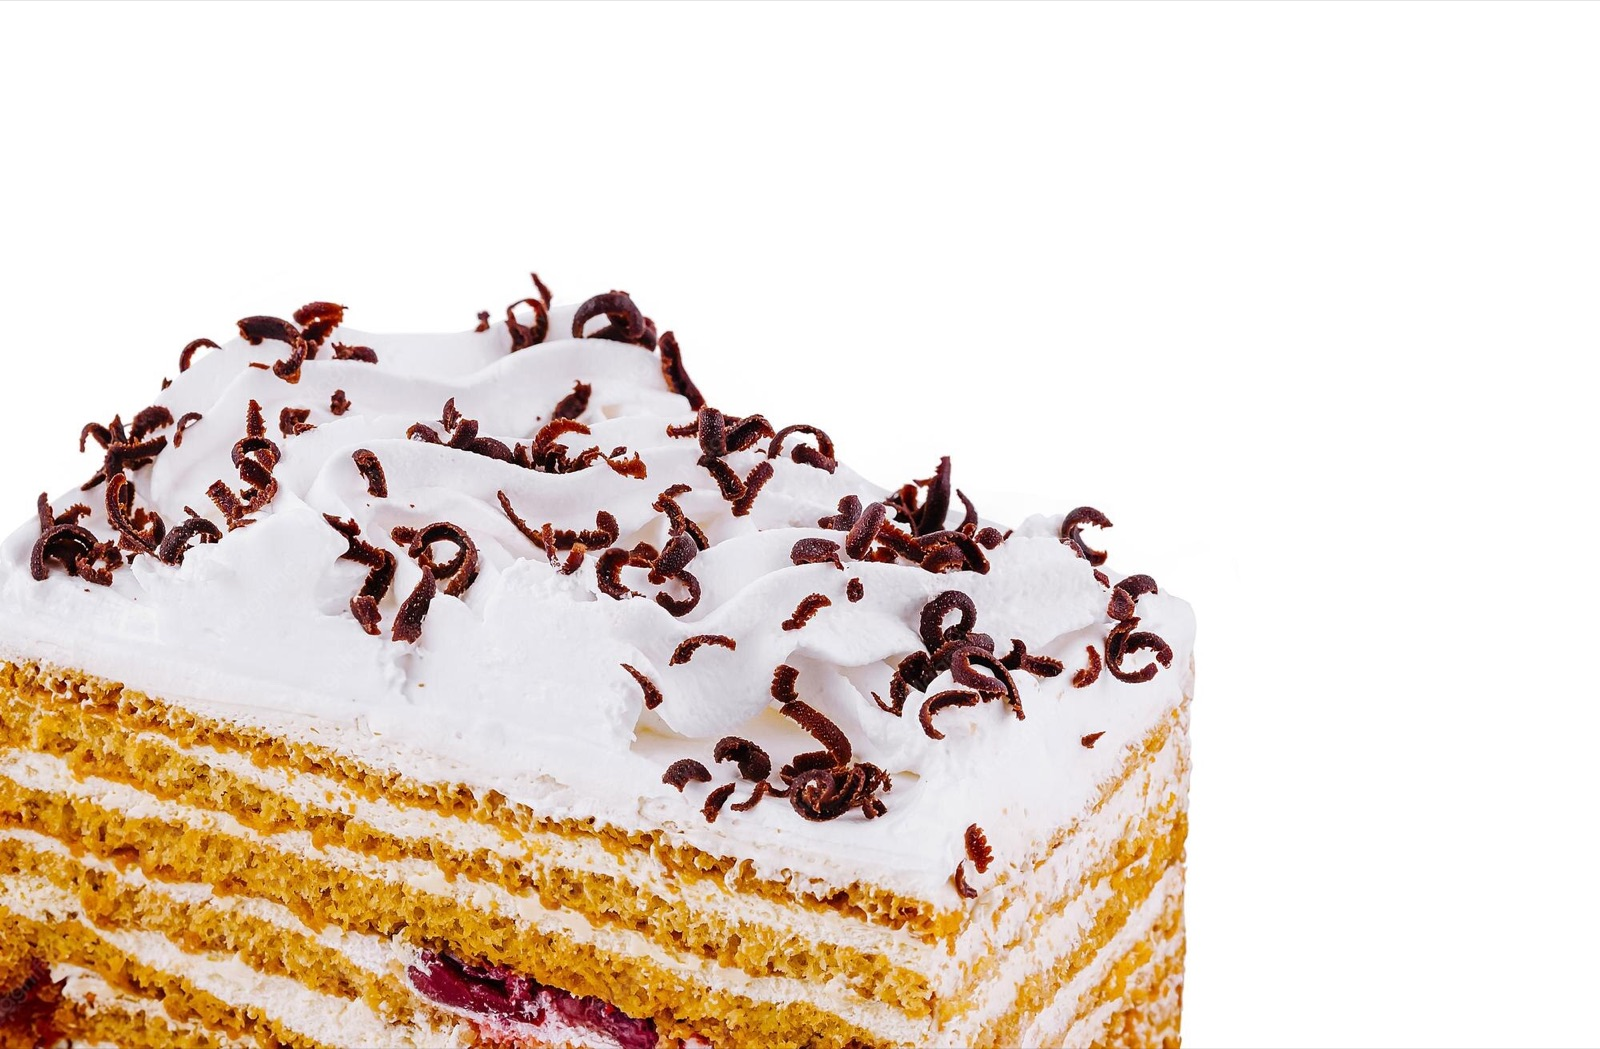
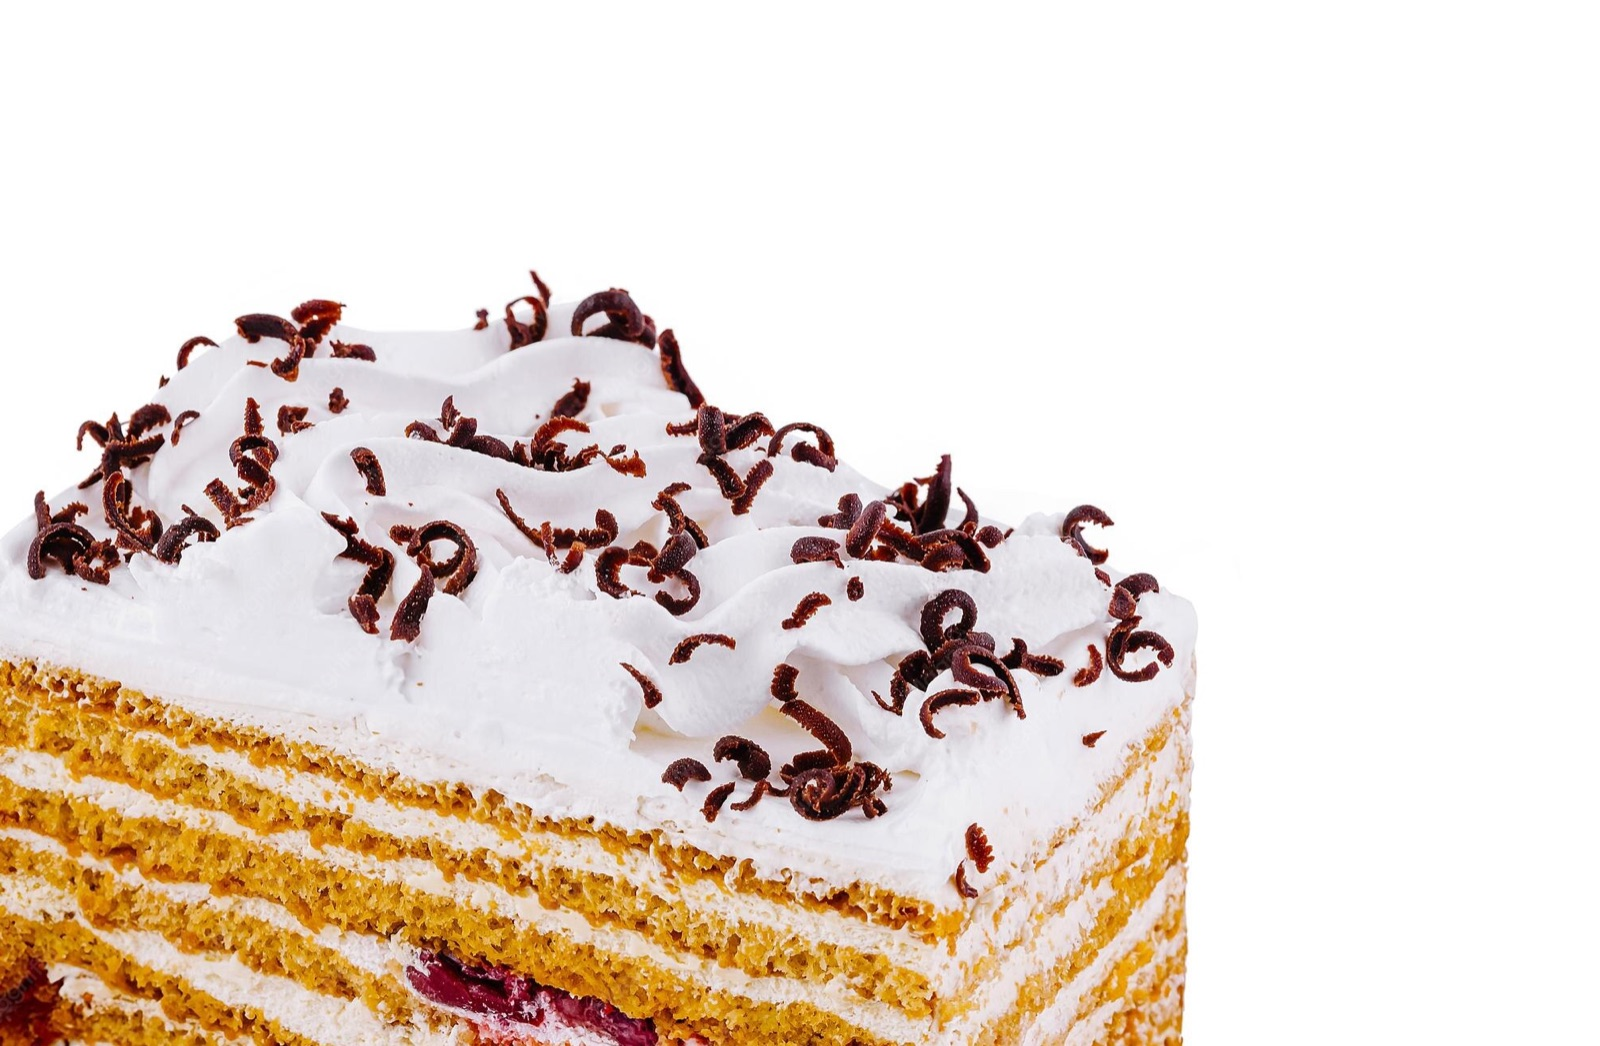
Match Figma layout: flipped hero cake, horizontal spoon, full footer cake
Hero cake is rotated 180° as in the design, berries shown as a full
bowl instead of a circle crop, a single spoon laid horizontally under
the contact text, marquee no longer hidden behind the title plate, and
the footer cake is shown uncropped at full width.

diff --git a/index.html b/index.html
@@ -7,7 +7,7 @@
 <meta name="description" content="Домашняя кондитерская @vvladsaa: торты, чизкейки, десерты ручной работы на заказ.">
 <link rel="preconnect" href="https://fonts.googleapis.com">
 <link rel="preconnect" href="https://fonts.gstatic.com" crossorigin>
-<link href="https://fonts.googleapis.com/css2?family=Playfair+Display:ital,wght@0,400;0,600;1,400;1,500&display=swap" rel="stylesheet">
+<link href="https://fonts.googleapis.com/css2?family=Playfair+Display:ital,wght@0,400;1,400&display=swap" rel="stylesheet">
 <link rel="stylesheet" href="style.css">
 </head>
 <body>
@@ -15,47 +15,45 @@
 <header class="site-header">
   <div class="marquee" aria-hidden="true">
     <div class="marquee__track">
-      <span>трайфл&nbsp;&nbsp;·&nbsp;&nbsp;медовик&nbsp;&nbsp;·&nbsp;&nbsp;бенто-торт&nbsp;&nbsp;·&nbsp;&nbsp;чизкейк&nbsp;&nbsp;·&nbsp;&nbsp;брауни&nbsp;&nbsp;·&nbsp;&nbsp;рулет&nbsp;&nbsp;·&nbsp;&nbsp;моти&nbsp;&nbsp;·&nbsp;&nbsp;тирамису&nbsp;&nbsp;·&nbsp;&nbsp;вафли&nbsp;&nbsp;·&nbsp;&nbsp;наполеон&nbsp;&nbsp;·&nbsp;&nbsp;бисквит&nbsp;&nbsp;·&nbsp;&nbsp;печенье&nbsp;&nbsp;·&nbsp;&nbsp;эклер&nbsp;&nbsp;·&nbsp;&nbsp;тарт&nbsp;&nbsp;·&nbsp;&nbsp;</span>
-      <span>трайфл&nbsp;&nbsp;·&nbsp;&nbsp;медовик&nbsp;&nbsp;·&nbsp;&nbsp;бенто-торт&nbsp;&nbsp;·&nbsp;&nbsp;чизкейк&nbsp;&nbsp;·&nbsp;&nbsp;брауни&nbsp;&nbsp;·&nbsp;&nbsp;рулет&nbsp;&nbsp;·&nbsp;&nbsp;моти&nbsp;&nbsp;·&nbsp;&nbsp;тирамису&nbsp;&nbsp;·&nbsp;&nbsp;вафли&nbsp;&nbsp;·&nbsp;&nbsp;наполеон&nbsp;&nbsp;·&nbsp;&nbsp;бисквит&nbsp;&nbsp;·&nbsp;&nbsp;печенье&nbsp;&nbsp;·&nbsp;&nbsp;эклер&nbsp;&nbsp;·&nbsp;&nbsp;тарт&nbsp;&nbsp;·&nbsp;&nbsp;</span>
+      <span>трайфл</span><span>медовик</span><span>бенто-торт</span><span>чизкейк</span><span>брауни</span><span>рулет</span><span>моти</span><span>тирамису</span><span>вафли</span><span>наполеон</span><span>бисквит</span><span>печенье</span><span>эклер</span><span>тарт</span>
+      <span>трайфл</span><span>медовик</span><span>бенто-торт</span><span>чизкейк</span><span>брауни</span><span>рулет</span><span>моти</span><span>тирамису</span><span>вафли</span><span>наполеон</span><span>бисквит</span><span>печенье</span><span>эклер</span><span>тарт</span>
     </div>
   </div>
-  <h1 class="site-title">Десерты ручной работы</h1>
+  <h1 class="site-title"><span>Десерты ручной работы</span></h1>
 </header>
 
 <main>
-
   <div class="hero">
-    <img src="assets/cake-dark.jpg" alt="Шоколадный торт с белым и тёмным шоколадом" loading="eager">
+    <img src="assets/cake-dark.jpg" alt="Шоколадный торт" width="1600" height="962">
   </div>
 
-  <section class="intro">
-    <p>Домашняя кондитерская <strong>@vvladsaa</strong> реализует индивидуальный подход к каждому заказу. Мы обращаем внимание на то, где и когда будет подан десерт, кому и по какому поводу.</p>
+  <section id="about" class="intro">
+    <p>Домашняя кондитерская @vvladsaa реализует индивидуальный подход к каждому заказу. Мы обращаем внимание на то, где и когда будет подан десерт, кому и по какому поводу.</p>
     <p>Именно поэтому на 100&nbsp;грамм нам удаётся вместить<br>больше смысла, любви и заботы, чем калорий.</p>
   </section>
 
   <section id="ingredients" class="feature">
-    <img src="assets/berries.jpg" alt="Миска свежих ягод: малина, ежевика, черника" loading="lazy">
+    <img src="assets/berries.jpg" alt="Миска свежих ягод: малина, ежевика, черника" width="700" height="700" loading="lazy">
     <p>Кондитерская берётся за десерты любой сложности. От небольшого чизкейка до свадебных тортов. Наш опыт позволяет создать десерт точно ко времени заказа&nbsp;— карамель всегда будет густой, брауни сохранит текстуру, а ягоды даже в зиму дадут вам прочувствовать вкус лета.</p>
   </section>
 
   <section id="order" class="contact">
-    <div class="contact__spoon" role="img" aria-label="Деревянная ложка"></div>
-    <div class="contact__text">
-      <p>Для вопросов и предложений, напишите напрямую на telegram аккаунт&nbsp;<a href="https://t.me/vvladsaa" target="_blank" rel="noopener">@vvladsaa</a></p>
-      <p>Найти работы и жизнь автора можно по <a href="https://t.me/vvladsaa" target="_blank" rel="noopener"><em>ссылке</em></a></p>
-    </div>
+    <p>Для вопросов и предложений, напишите напрямую на telegram аккаунт <a href="https://t.me/vvladsaa" target="_blank" rel="noopener">@vvladsaa</a><br>
+    Найти работы и жизнь автора можно по <a href="https://t.me/vvladsaa" target="_blank" rel="noopener"><em>ссылке</em></a></p>
+    <img class="contact__spoon" src="assets/spoon.jpg" alt="" width="900" height="187" loading="lazy">
   </section>
-
 </main>
 
 <footer class="site-footer">
-  <img src="assets/cake-white.jpg" alt="" class="site-footer__bg" loading="lazy">
-  <nav class="footer__nav" id="about">
-    <a href="#about">О кондитерской</a>
-    <a href="#ingredients">Ингредиенты</a>
-    <a href="#order">Заказ десерта</a>
-  </nav>
-  <p class="footer__copy">© vvladsaa</p>
+  <img src="assets/cake-white.jpg" alt="Медовый торт со сливочным кремом" class="site-footer__bg" width="1600" height="1046" loading="lazy">
+  <div class="site-footer__side">
+    <nav class="footer__nav">
+      <a href="#about">О кондитерской</a>
+      <a href="#ingredients">Ингредиенты</a>
+      <a href="#order">Заказ десерта</a>
+    </nav>
+    <p class="footer__copy">© vvladsaa</p>
+  </div>
 </footer>
 
 </body>

diff --git a/style.css b/style.css
@@ -1,37 +1,37 @@
 :root {
   --serif: "Playfair Display", Georgia, serif;
-  --ink: #111;
-  --paper: #fff;
+  --fs: clamp(17px, 1.67vw, 24px);
 }
 
 * { box-sizing: border-box; }
 
-html {
-  scroll-behavior: smooth;
-}
+html { scroll-behavior: smooth; }
 
 body {
   margin: 0;
-  background: var(--paper);
-  color: var(--ink);
+  background: #fff;
+  color: #000;
   font-family: var(--serif);
-  font-size: 18px;
-  line-height: 1.6;
+  font-size: var(--fs);
+  line-height: 1.35;
 }
 
-a {
-  color: inherit;
-}
+img { display: block; max-width: 100%; height: auto; }
+
+a { color: inherit; }
 
 /* ---------- Header ---------- */
 
 .site-header {
-  position: relative;
-  height: 64px;
+  position: sticky;
+  top: 0;
+  z-index: 10;
+  height: 57px;
   background: #000;
   overflow: hidden;
   display: flex;
   align-items: center;
+  justify-content: center;
 }
 
 .marquee {
@@ -39,170 +39,138 @@ a {
   inset: 0;
   display: flex;
   align-items: center;
-  overflow: hidden;
 }
 
 .marquee__track {
   display: flex;
+  flex-shrink: 0;
   white-space: nowrap;
-  color: rgba(255, 255, 255, 0.35);
   font-style: italic;
-  font-size: clamp(14px, 2vw, 20px);
-  animation: scroll-left 32s linear infinite;
+  color: rgba(255, 255, 255, 0.5);
+  animation: marquee 30s linear infinite;
 }
 
-@keyframes scroll-left {
-  from { transform: translateX(0); }
-  to   { transform: translateX(-50%); }
+.marquee__track span { padding-right: 2.2em; }
+
+@keyframes marquee {
+  to { transform: translateX(-50%); }
 }
 
 .site-title {
   position: relative;
-  z-index: 1;
-  width: 100%;
   margin: 0;
-  text-align: center;
-  font-family: var(--serif);
   font-weight: 400;
-  font-size: clamp(15px, 2vw, 20px);
+  font-size: var(--fs);
   color: #fff;
-  letter-spacing: 0.02em;
-  padding: 0 20%;
-  background: linear-gradient(90deg, transparent, #000 18%, #000 82%, transparent);
+  white-space: nowrap;
+}
+
+/* black plate with soft edges, hides the marquee behind the title */
+.site-title span {
+  display: block;
+  padding: 0 90px;
+  line-height: 57px;
+  background: linear-gradient(90deg, transparent, #000 87px, #000 calc(100% - 87px), transparent);
 }
 
 @media (prefers-reduced-motion: reduce) {
   .marquee__track { animation: none; }
 }
 
-/* ---------- Hero ---------- */
+/* ---------- Hero: cake turned upside down, as in the design ---------- */
 
 .hero img {
-  display: block;
   width: 100%;
-  height: min(70vh, 620px);
+  aspect-ratio: 1460 / 773;
   object-fit: cover;
-  object-position: center 30%;
+  object-position: top;
+  transform: rotate(180deg);
 }
 
-/* ---------- Shared section layout ---------- */
-
-main section {
-  max-width: 1100px;
-  margin: 0 auto;
-  padding: 80px 32px;
-}
+/* ---------- Sections ---------- */
 
 .intro {
+  max-width: 1160px;
+  margin: -10vw auto 0;
+  padding: 0 24px;
+  position: relative;
   text-align: center;
-  font-style: italic;
-  font-size: clamp(17px, 1.6vw, 22px);
 }
 
-.intro p {
-  max-width: 760px;
-  margin: 0 auto 1.2em;
-}
+.intro p { margin: 0; }
 
 .feature {
-  display: flex;
+  display: grid;
+  grid-template-columns: minmax(0, 520px) minmax(0, 752px);
   align-items: center;
-  gap: 64px;
-  flex-wrap: wrap;
+  gap: 40px;
+  max-width: 1440px;
+  margin: 0 auto;
+  padding: 130px 56px 0;
 }
 
-.feature img {
-  flex: 1 1 340px;
-  width: 100%;
-  max-width: 420px;
-  aspect-ratio: 1 / 1;
-  object-fit: cover;
-  border-radius: 50%;
-}
-
-.feature p {
-  flex: 1 1 380px;
-  font-size: 1.05em;
-}
+.feature p { margin: 0; }
 
 .contact {
-  display: flex;
-  align-items: center;
-  gap: 48px;
-  flex-wrap: wrap;
+  max-width: 1440px;
+  margin: 0 auto;
+  padding: 70px 24px 0;
+}
+
+.contact p {
+  width: fit-content;
+  max-width: 100%;
+  margin: 0 auto;
+  padding-right: 8%;
 }
 
 .contact__spoon {
-  flex: 0 0 90px;
-  width: 90px;
-  height: 320px;
-  background-image: url("assets/spoons.jpg");
-  background-size: 480% 100%;
-  background-position: 0% center;
-  border-radius: 12px;
-}
-
-.contact__text {
-  flex: 1 1 420px;
-}
-
-.contact__text p {
-  margin: 0.6em 0;
-}
-
-.contact a {
-  text-decoration: underline;
+  position: relative;
+  z-index: 1;
+  width: min(525px, 80%);
+  margin: 70px auto 0;
 }
 
 /* ---------- Footer ---------- */
 
 .site-footer {
   position: relative;
-  min-height: 420px;
-  display: flex;
-  flex-direction: column;
-  align-items: flex-end;
-  justify-content: space-between;
-  padding: 48px 64px;
-  overflow: hidden;
-  color: var(--ink);
+  margin-top: -40px;
 }
 
-.site-footer__bg {
+.site-footer__bg { width: 100%; }
+
+.site-footer__side {
   position: absolute;
-  inset: 0;
-  width: 100%;
-  height: 100%;
-  object-fit: cover;
-  object-position: top;
-  z-index: -1;
+  right: 6.5%;
+  bottom: 6%;
+  width: 13%;
+  min-width: 170px;
+  text-align: center;
 }
 
 .footer__nav {
   display: flex;
   flex-direction: column;
-  align-items: flex-end;
-  gap: 14px;
   font-style: italic;
-  font-size: clamp(16px, 1.8vw, 22px);
-}
-
-.footer__nav a {
-  text-decoration: underline;
-  text-underline-offset: 4px;
+  line-height: 2.9;
 }
 
 .footer__copy {
-  font-size: 14px;
-  margin: 0;
+  margin: 0.8em 0 0;
+  font-family: Helvetica, Arial, sans-serif;
 }
 
-/* ---------- Responsive ---------- */
+/* ---------- Mobile ---------- */
 
-@media (max-width: 640px) {
-  main section { padding: 56px 20px; }
-  .feature, .contact { gap: 32px; }
-  .contact__spoon { display: none; }
-  .site-footer { align-items: center; text-align: center; padding: 32px 24px; }
-  .footer__nav { align-items: center; }
+@media (max-width: 760px) {
+  .site-title span { padding: 0 40px; background: linear-gradient(90deg, transparent, #000 36px, #000 calc(100% - 36px), transparent); }
+  .feature { grid-template-columns: 1fr; gap: 28px; padding: 64px 20px 0; }
+  .feature img { max-width: 420px; margin: 0 auto; }
+  .contact { padding-top: 56px; }
+  .contact p { padding-right: 0; }
+  .contact__spoon { margin-top: 40px; }
+  .site-footer { margin-top: 24px; }
+  .site-footer__side { position: static; width: auto; padding: 16px 0 32px; }
+  .footer__nav { line-height: 2.2; }
 }
